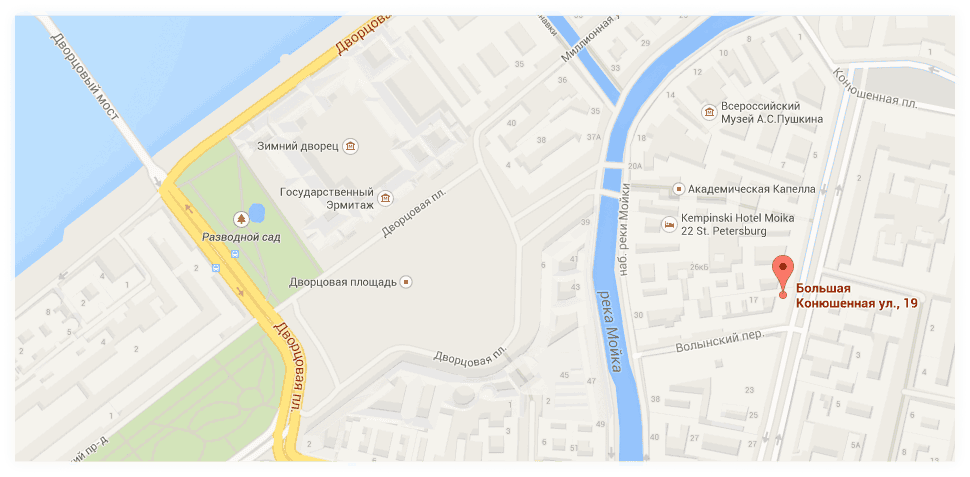
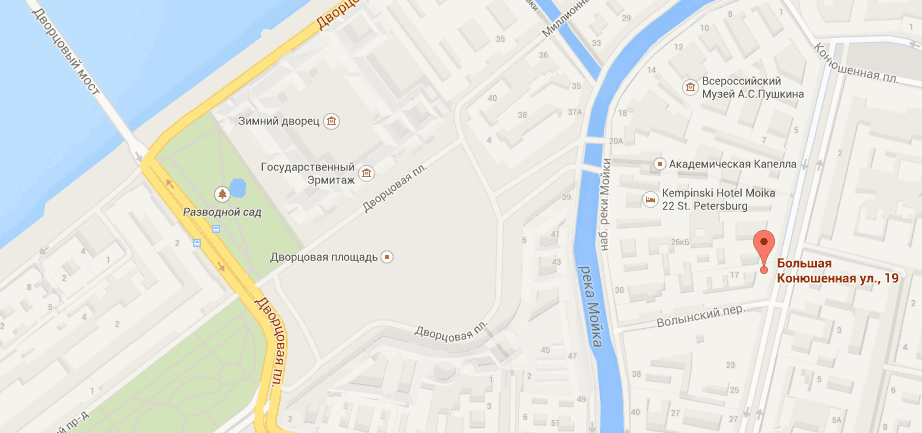
карта

diff --git a/index.html b/index.html
@@ -443,7 +443,7 @@
 
       <div class="pop-map">
         <a href="https://www.google.ru/maps/">
-          <img src="img/map-large.png" width="970" height="477" alt="Большая карта местности">
+          <img src="img/map-large.png" width="922" height="433" alt="Большая карта местности">
         </a>
       </div>
       <button class="pop-close map" type="button">Закрыть</button>

diff --git a/css/style.css b/css/style.css
@@ -2200,7 +2200,7 @@ padding-left: 20px;
 .large-map {
     padding: 0;
     margin: 0 auto;
-    width: 970px;
+    width: 922px;
 }
 
 .pop-map {
